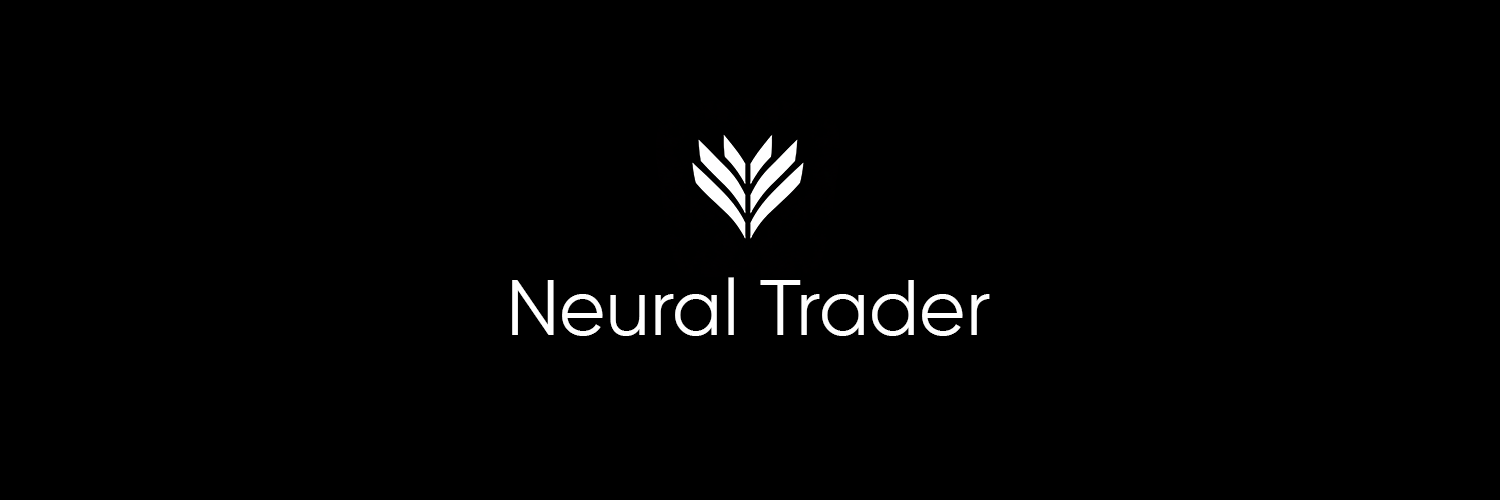
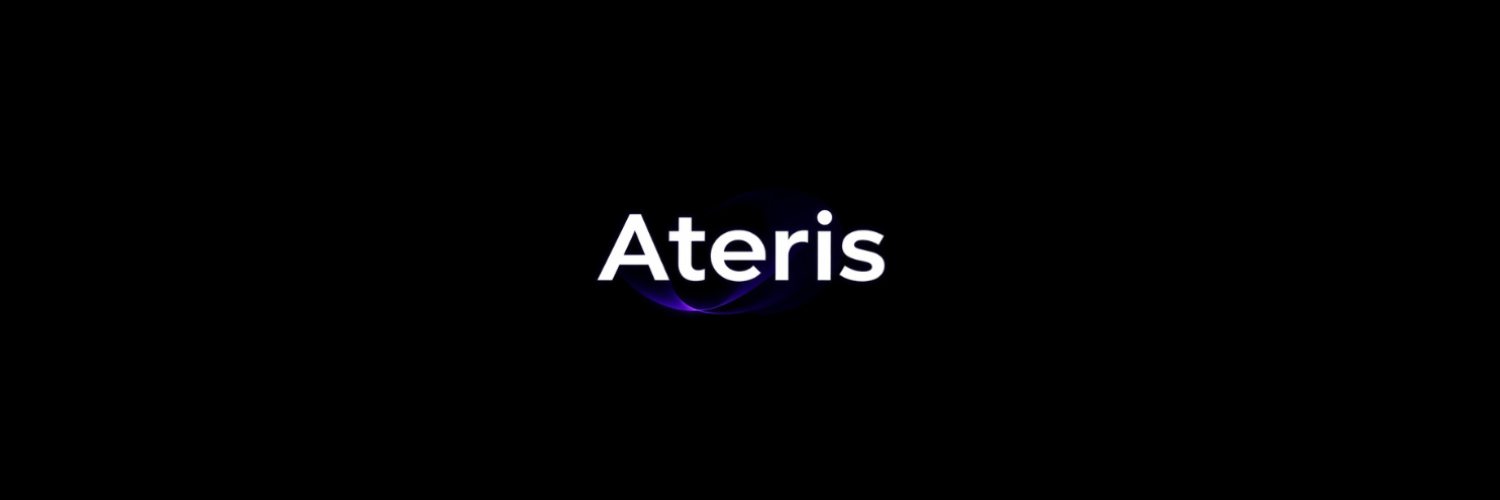
finalized build

Changed region(s): [[0.3373, 0.27, 0.6747, 0.69]]

diff --git a/README.md b/README.md
@@ -1,6 +1,6 @@
-# NeuralTrader: A Solana Trading Bot Leveraging AI (Beta)
+# Ateris: A Solana Trading Bot Leveraging AI (Beta)
 
-NeuralTrader is an advanced trading bot designed to automate token trading on the Solana blockchain. By utilizing cutting-edge AI and neural networks, it provides predictive market insights, real-time sentiment analysis, and adaptable strategies for traders. NeuralTrader is optimized to respond dynamically to market conditions, enhancing profitability through advanced reinforcement learning models.
+Ateris is an advanced trading bot designed to automate token trading on the Solana blockchain. By utilizing cutting-edge AI and neural networks, it provides predictive market insights, real-time sentiment analysis, and adaptable strategies for traders. Ateris is optimized to respond dynamically to market conditions, enhancing profitability through advanced reinforcement learning models.
 
 ![NeuralTrader Banner](banner.png)
 
@@ -15,7 +15,7 @@ NeuralTrader is an advanced trading bot designed to automate token trading on th
 
 ## Setup
 
-To begin using NeuralTrader:
+To begin using Ateris:
 
 1. **Create a Wallet**:
    - Set up a new Solana wallet and fund it with SOL.
@@ -80,7 +80,7 @@ You should see output similar to this:
 
 ## Advanced Features: Warp Transactions (Beta)
 
-For improved transaction performance and reduced failures, NeuralTrader supports Warp Transactions. This service enables optimized transaction execution through third-party providers.
+For improved transaction performance and reduced failures, Ateris supports Warp Transactions. This service enables optimized transaction execution through third-party providers.
 
 ### Security
 Your private key remains secure and is not transmitted during transaction processing.
@@ -102,10 +102,10 @@ Ensure your wallet holds the required USDC or WSOL for trading.
 
 ## Contact & Support
 
-- Visit our [website](https://neuraltrader.io).
-- Follow us on [Twitter](https://x.com/neuraltradersol).
+- Visit our [website](https://ateris.io).
+- Follow us on [Twitter](https://x.com/ateris_ai).
 
 ---
 
 ## Disclaimer
-NeuralTrader is provided as-is for educational purposes. Trading cryptocurrencies involves significant risk. Users are solely responsible for any losses incurred while using the bot.
+Ateris is provided as-is for educational purposes. Trading cryptocurrencies involves significant risk. Users are solely responsible for any losses incurred while using the bot.
